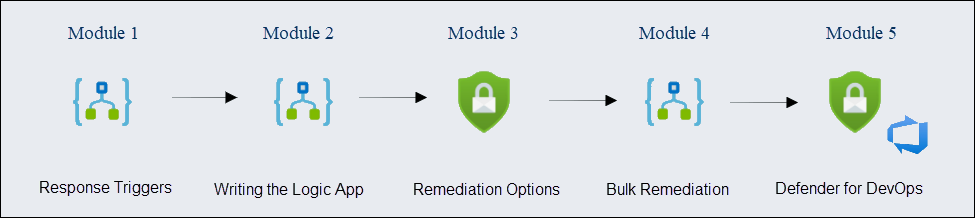
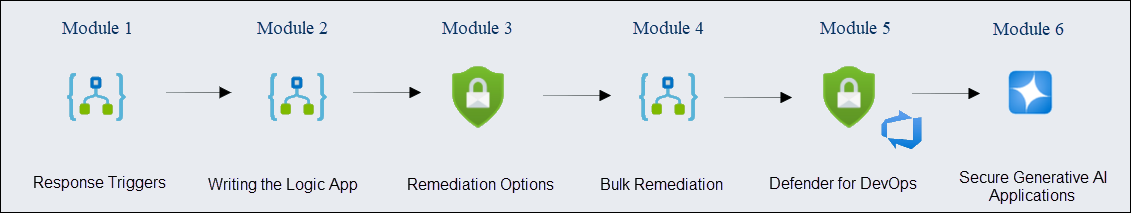
Updated

diff --git a/Instructions/Labs/LabIntro.md b/Instructions/Labs/LabIntro.md
@@ -10,20 +10,23 @@ In this hands-on lab, you will explore Microsoft Defender for Cloud, focusing on
 
 Understand how to utilize Azure DevOps and Defender for Cloud to enhance your cloud security posture. By the end of this lab, you will be able to:
 
-- **Getting Started with Defender for Cloud:** Learn how to trigger automated and manual responses using Defender for Cloud. Gain insight into initiating and managing cloud security alerts and responses.
+- **Response Triggers :** Learn how to trigger automated and manual responses using Defender for Cloud. Gain insight into initiating and managing cloud security alerts and responses.
 - **Writing and Deploying Logic Apps:** Develop hands-on skills in writing and deploying Logic Apps for cloud security automation. Understand how to integrate these apps into your cloud security strategy.
-- **Implementing Remediation Strategies:** Explore automated and manual remediation options within Defender for Cloud and evaluate their effectiveness in addressing security issues.
-- **Securing DevOps Pipelines:** Integrate security scanning solutions into your DevOps pipelines with GHAS and Defender for DevOps, ensuring continuous security throughout the development lifecycle.
+- **Remediation Options:** Explore automated and manual remediation options within Defender for Cloud and evaluate their effectiveness in addressing security issues.
+- **Bulk Remediation:** Explore how to leverage Defender for Cloud’s built-in capabilities for automated and manual remediation. If you're interested in applying these concepts within Azure Sentinel, please inform the workshop instructor, and they can arrange a follow-up.
+- **Defender for DevOps:** Explore integrating GitHub Advanced Security (GHAS) and Microsoft Defender for DevOps into your CI/CD pipeline to enhance security. We’ll focus on using GHAS and Defender for DevOps to automatically detect and address security issues within your pipeline. Instead of solely relying on traditional security measures, we’ll configure these tools to provide continuous security assessments and proactive responses directly within your DevOps environment.
+- **Secure Generative AI Applications:** Learn to secure generative AI applications by enabling AI workload plans in Defender for Cloud, creating content filters, and managing deployments in Azure AI Foundry. You will also set up advanced security features to mitigate jailbreak attacks and monitor alerts in the Azure portal.
 
 ## Pre-requisites
 
 - Familiarity with Microsoft Defender for Cloud.
-- Basic understanding of Logic Apps and Azure DevOps.
+- Basic understanding of Logic Apps, Azure DevOps and OpenAI.
 - Knowledge of cloud security principles.
 
 ## Architecture
 
-The architecture for this lab focuses on integrating Microsoft Defender for Cloud with various security and automation tools to secure cloud resources and development pipelines. This architecture enables the automation of security responses, continuous monitoring of cloud environments, and the protection of CI/CD pipelines. Below is a detailed explanation of the architecture components and how they interact within the context of this lab.
+The architecture follows an automation-first security approach, leveraging **Azure Logic Apps, Microsoft Defender for DevOps, and AI security measures**. It begins with **response triggers and Logic Apps** to automate security workflows, followed by defining **remediation options and bulk remediation** for large-scale security fixes.  
+Next, **Defender for DevOps** integrates security into development pipelines, ensuring compliance and threat protection. The final step focuses on **securing Generative AI applications**, applying best practices for AI security, compliance, and responsible AI principles.
 
 ## Architecture Diagram
 
@@ -48,6 +51,8 @@ The architecture for this lab focuses on integrating Microsoft Defender for Clou
 9. **Defender Cloud Security Posture Management (DCSPM)**: DCSPM provides a holistic view of your cloud security posture, offering insights, recommendations, and automated actions to improve security. It plays a critical role in maintaining and enhancing the security of your cloud environments.
 
 10. **Third-Party Security Scanning Tools**: These tools can be integrated with Defender for Cloud to provide additional security scanning capabilities beyond what is offered by Microsoft solutions. Integrating these tools allows for a more comprehensive security strategy that leverages the strengths of multiple providers.
+
+11. **OpenAI**: OpenAI can be integrated with Defender for Cloud to enhance security analysis, anomaly detection, and automated threat responses using advanced AI models. This integration enables a more proactive and intelligent security strategy beyond Microsoft’s built-in solutions.
 
 ## Getting Started with the Lab
  

diff --git a/Instructions/Labs/Module 6 - Secure Generative AI Applications.md b/Instructions/Labs/Module 6 - Secure Generative AI Applications.md
@@ -2,7 +2,16 @@
 
 ## Overview:
 
-In this lab, we'll explore the steps involved in securing generative AI applications by implementing robust content filters and security measures. The lab guides you through enabling AI workload plans in Microsoft Defender for Cloud, validating and creating content filters, and exploring the Azure AI Foundry portal for managing deployments. You will learn how to mitigate risks associated with jailbreak attacks by setting up advanced security features and monitoring alerts in the Azure portal. By the end of this lab, you’ll gain hands-on experience in securing AI models to ensure they operate safely and comply with organizational policies.
+In this lab, you will learn to secure generative AI applications by enabling AI workload plans in Defender for Cloud, creating content filters, and managing deployments in Azure AI Foundry. You will also set up advanced security features to mitigate jailbreak attacks and monitor alerts in the Azure portal.
+
+## Architecture
+
+The architecture showcases a **secure DevOps and AI-driven cloud solution**, integrating **Azure, AWS, and security services**. The workflow begins with a **developer** pushing code to **Azure DevOps**, which then stores container images in **Azure Container Registry (ACR)**. These images are deployed to **AKS (Azure Kubernetes Service) or EKS (Amazon Elastic Kubernetes Service)**, while **Key Vault** manages secrets and credentials.  
+Security is enforced through **Defender for Cloud**, **API Gateway (WAF), and Entra ID** for authentication. The deployed applications interact with **Amazon Bedrock and Azure OpenAI** for AI processing, while data is stored in **Azure SQL and Storage Accounts**. **Logs are collected in Log Storage** and monitored via **Microsoft Sentinel**, ensuring security and compliance across the infrastructure.
+
+## Architecture Diagram
+
+![](images/arch.png)
 
 ## Estimated Duration: 50 min
 
@@ -15,7 +24,7 @@ In this lab, you will complete the following tasks:
 - Validate Content Filter Policy
 - Create The Content Filter
 
-## **Task 1: Enable AI workload plan**
+### **Task 1: Enable AI workload plan**
 
 1. In the search bar, type **Microsoft Defender (1)** and select **Microsoft Defender for Cloud (2)** from the results.
 
@@ -35,7 +44,7 @@ In this lab, you will complete the following tasks:
 
 1. Verify that the models have an active Content Filter Policy in place.
 
-## **Task 2: Explore Azure AI Foundry portal**
+### **Task 2: Explore Azure AI Foundry portal**
 
 1. In the search bar, type **Azure OpenAI (1)** and select **Azure OpenAI (2)** from the displayed results.  
 
@@ -59,7 +68,7 @@ In this lab, you will complete the following tasks:
 
    ![](./images/182.png)
 
-## **Task 3: Validate Content Filter Policy**
+### **Task 3: Validate Content Filter Policy**
 
 1. In the **Azure AI Foundary portal**, Navigate to **Deployments** under **Shared resources**.
 
@@ -67,7 +76,7 @@ In this lab, you will complete the following tasks:
 
    ![](./images/183.png)
 
-## **Task 4: Create The Content Filter**
+### **Task 4: Create The Content Filter**
 
 1. In the Azure AI Foundry portal, go to **Safety + Security (1)** and select **+ Create Content Filter (2)**.
 
